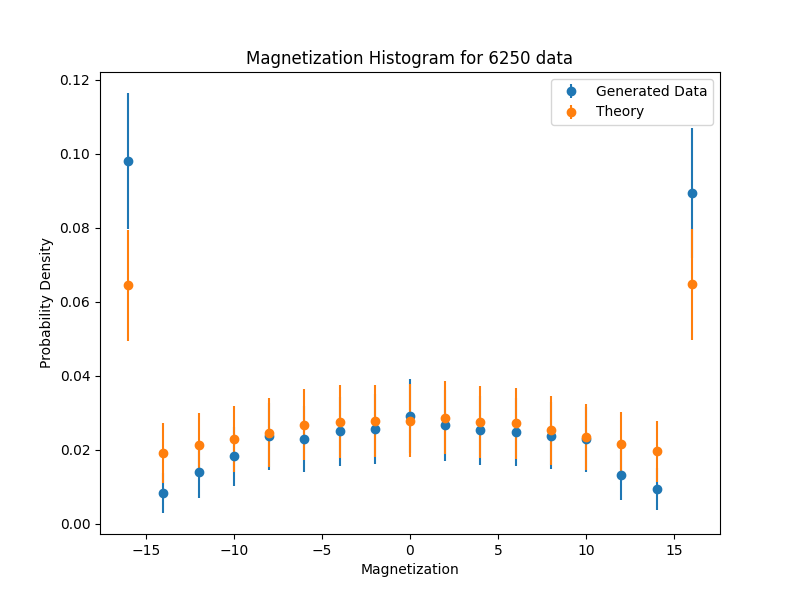
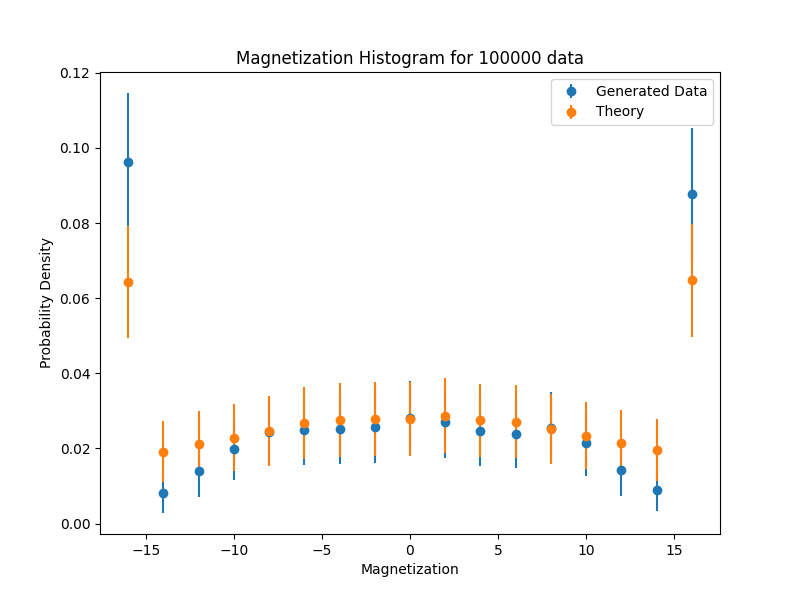
# 25 x016 plots with error & 200epochs histograms

diff --git a/isingOne_Linear_16_V2.py b/isingOne_Linear_16_V2.py
@@ -13,10 +13,10 @@ from tqdm import tqdm
 from isingDataset import IsingDataset
 
 torch.cuda.empty_cache()
-epochs = 400    # 400
+epochs = 200    # 400
 batch_size = 6250   # 12500
 latent_dim = 16  # <- size of ising model configuration
-noise_dim = 1   # <- size of input noise
+noise_dim = 32   # <- size of input noise
 lr = 0.0001  # <- 0.0001
 beta = "s0100"
 
@@ -32,10 +32,10 @@ print("ising data tensor shape", ising_data_ready.shape)
 print("sample ising data tensor shape", ising_data_ready[0].shape)
 
 savedModel = "savedModels/isingOne(" + str(latent_dim) + "-" + beta + ")Linear[" + str(
-    noise_dim) + "].pth"  # <- path to save model
+    noise_dim) + "]_200epochs.pth"  # <- path to save model
 savedDataPath = "outIsingData/" + beta + "_x016/" + str(latent_dim) + "-" + beta + "[" + str(
     noise_dim) + "]/outputData(" + str(
-    latent_dim) + "-" + beta + ")TestFileLinear[" + str(noise_dim) + "].npy"  # <-path to save the data
+    latent_dim) + "-" + beta + ")TestFileLinear[" + str(noise_dim) + "]_200epochs.npy"  # <-path to save the data
 
 outfile = TemporaryFile()
 transformation = transforms.Compose([transforms.ToTensor(), transforms.Normalize(mean=0.5, std=0.5)])
@@ -252,7 +252,7 @@ if __name__ == "__main__":
     plt.xlabel("Iterations")
     plt.ylabel("Loss")
     plt.legend()
-    plt.savefig("outIsingData/" + beta + "_x016/16-" + beta + "[" + str(noise_dim) + "]/Training.png")
+    plt.savefig("outIsingData/" + beta + "_x016/16-" + beta + "[" + str(noise_dim) + "]/Training_200epochs.png")
     plt.show()
 
 

diff --git a/testData_x016.py b/testData_x016.py
@@ -6,7 +6,7 @@ inputNoise = 32  # <- size of input noise
 beta = "s0100"
 
 fakeDataPath = "outIsingData/" + beta + "_x016/16-" + beta + "[" + str(
-    inputNoise) + "]/outputData(16-" + beta + ")TestFileLinear[" + str(inputNoise) + "].npy"  # <-path to save the data
+    inputNoise) + "]/outputData(16-" + beta + ")TestFileLinear[" + str(inputNoise) + "]Generated_200epochs.npy"  # <-path to save the data
 ising_fakeData = np.load(fakeDataPath)  # <- data for the test from the generated batch data
 # ising_data = np.load('outIsingData/outputDataTestFileLinear4.npy')  # <- test data coming from the generator
 
@@ -29,9 +29,9 @@ fakeEnergy = -(fakeData * np.roll(fakeData, 1, 1)).sum(1).astype('int64')
 fakeMagnetization = fakeData.sum(axis=1)
 
 energy_histogram_filename = "outIsingData/" + beta + "_x016/16-" + beta + "[" + str(
-    inputNoise) + "]/EnergyHistogramWithError.png"
+    inputNoise) + "]/EnergyHistogramWithError_200epochs.png"
 magnetization_histogram_filename = "outIsingData/" + beta + "_x016/16-" + beta + "[" + str(
-    inputNoise) + "]/MagnetizationHistogramWithError.png"
+    inputNoise) + "]/MagnetizationHistogramWithError_200epochs.png"
 
 
 def calculate_std_error(hist_counts):

diff --git a/dataGenerator_v2_x016.py b/dataGenerator_v2_x016.py
@@ -5,7 +5,7 @@ import isingOne_Linear_16_V2  # <- importing the appropriate model file
 noise_dim = isingOne_Linear_16_V2.noise_dim  # <- size of input noise
 volume = 100000  # <- expected amount of data
 beta = isingOne_Linear_16_V2.beta
-savedDataPath = "outIsingData/" + beta + "_x016/16-" + beta + "[" + str(noise_dim) + "]/outputData(16-" + beta + ")TestFileLinear[" + str(noise_dim) + "]Generated.npy"  # <-path to save the data
+savedDataPath = "outIsingData/" + beta + "_x016/16-" + beta + "[" + str(noise_dim) + "]/outputData(16-" + beta + ")TestFileLinear[" + str(noise_dim) + "]Generated_200epochs.npy"  # <-path to save the data
 savedModelPath = isingOne_Linear_16_V2.savedModel
 
 inputData = torch.randn(volume, 1, noise_dim)

diff --git a/x016_200epochs.md b/x016_200epochs.md
@@ -1,0 +1,18 @@
+<h2  align="center">Configuration 16</h2>
+
+<h3 align="center">Charts of Generated data by Linear Models - 200 epochs</h3> <h6 align="center">(Fully connected layers)</h6>
+
+<h4>Beta: 0100</h4>
+
+|                                  Input noise 1                                  |                          Input noise 2                          |                            Input noise 4                             |
+|:-------------------------------------------------------------------------------:|:---------------------------------------------------------------:|:--------------------------------------------------------------------:|
+|         ![](outIsingData/s0100_x016/16-s0100[1]/Training_200epochs.png)         |      ![](outIsingData/s0100_x016/16-s0100[2]/Training_200epochs.png)          |        ![](outIsingData/s0100_x016/16-s0100[4]/Training_200epochs.png)         |
+| ![](outIsingData/s0100_x016/16-s0100[1]/EnergyHistogramWithError_200epochs.png) |    ![](outIsingData/s0100_x016/16-s0100[2]/EnergyHistogramWithError_200epochs.png)     |     ![](outIsingData/s0100_x016/16-s0100[4]/EnergyHistogramWithError_200epochs.png)     |
+|  ![](outIsingData/s0100_x016/16-s0100[1]/MagnetizationHistogramWithError_200epochs.png)   | ![](outIsingData/s0100_x016/16-s0100[2]/MagnetizationHistogramWithError_200epochs.png)  | ![](outIsingData/s0100_x016/16-s0100[4]/MagnetizationHistogramWithError_200epochs.png)  |
+|                                  Input noise 8                                  |                         Input noise 16                          |                            Input noise 32                            |
+|         ![](outIsingData/s0100_x016/16-s0100[8]/Training_200epochs.png)         |       ![](outIsingData/s0100_x016/16-s0100[16]/Training_200epochs.png)        |        ![](outIsingData/s0100_x016/16-s0100[32]/Training_200epochs.png)        |
+|      ![](outIsingData/s0100_x016/16-s0100[8]/EnergyHistogramWithError_200epochs.png)      |    ![](outIsingData/s0100_x016/16-s0100[16]/EnergyHistogramWithError_200epochs.png)     |    ![](outIsingData/s0100_x016/16-s0100[32]/EnergyHistogramWithError_200epochs.png)     |
+|  ![](outIsingData/s0100_x016/16-s0100[8]/MagnetizationHistogramWithError_200epochs.png)   | ![](outIsingData/s0100_x016/16-s0100[16]/MagnetizationHistogramWithError_200epochs.png) | ![](outIsingData/s0100_x016/16-s0100[32]/MagnetizationHistogramWithError_200epochs.png) |
+
+<br>
+<br>

diff --git a/x016_400epochs.md b/x016_400epochs.md
@@ -1,0 +1,18 @@
+<h2  align="center">Configuration 16</h2>
+
+<h3 align="center">Charts of Generated data by Linear Models - 400 epochs</h3> <h6 align="center">(Fully connected layers)</h6>
+
+<h4>Beta: 0100</h4>
+
+|                             Input noise 1                             |                          Input noise 2                          |                            Input noise 4                             |
+|:---------------------------------------------------------------------:|:---------------------------------------------------------------:|:--------------------------------------------------------------------:|
+|         ![](outIsingData/s0100_x016/16-s0100[1]/Training.png)         |      ![](outIsingData/s0100_x016/16-s0100[2]/Training.png)          |        ![](outIsingData/s0100_x016/16-s0100[4]/Training.png)         |
+| ![](outIsingData/s0100_x016/16-s0100[1]/EnergyHistogramWithError.png) |    ![](outIsingData/s0100_x016/16-s0100[2]/EnergyHistogramWithError.png)     |     ![](outIsingData/s0100_x016/16-s0100[4]/EnergyHistogramWithError.png)     |
+|  ![](outIsingData/s0100_x016/16-s0100[1]/MagnetizationHistogramWithError.png)  | ![](outIsingData/s0100_x016/16-s0100[2]/MagnetizationHistogramWithError.png)  | ![](outIsingData/s0100_x016/16-s0100[4]/MagnetizationHistogramWithError.png)  |
+|                             Input noise 8                             |                         Input noise 16                          |                            Input noise 32                            |
+|         ![](outIsingData/s0100_x016/16-s0100[8]/Training.png)         |       ![](outIsingData/s0100_x016/16-s0100[16]/Training.png)        |        ![](outIsingData/s0100_x016/16-s0100[32]/Training.png)        |
+|     ![](outIsingData/s0100_x016/16-s0100[8]/EnergyHistogramWithError.png)      |    ![](outIsingData/s0100_x016/16-s0100[16]/EnergyHistogramWithError.png)     |    ![](outIsingData/s0100_x016/16-s0100[32]/EnergyHistogramWithError.png)     |
+|  ![](outIsingData/s0100_x016/16-s0100[8]/MagnetizationHistogramWithError.png)  | ![](outIsingData/s0100_x016/16-s0100[16]/MagnetizationHistogramWithError.png) | ![](outIsingData/s0100_x016/16-s0100[32]/MagnetizationHistogramWithError.png) |
+
+<br>
+<br>
